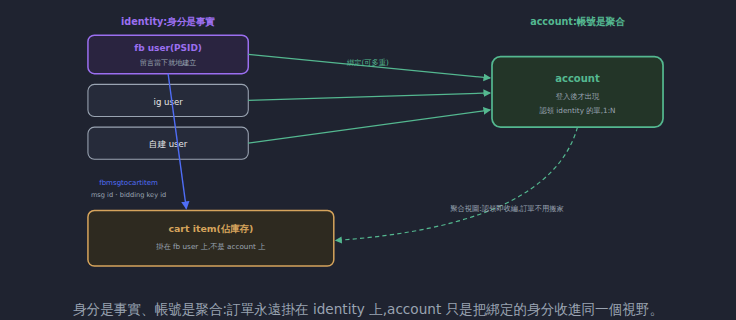
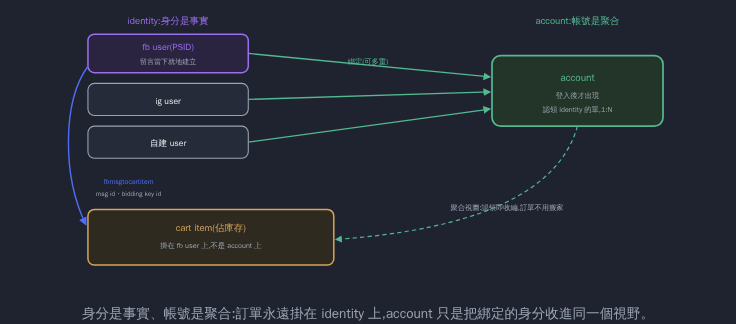
修正身分章分層圖:fb user → cart item 箭頭改走左側外緣
原本的直線箭頭從 fb user 直接穿過 ig user 與自建 user 兩個框才到
cart item,視覺上混淆(像是三個身分都連到同一個 cart item)。改成
沿左側外緣的弧線繞過,語意不變。鐵人賽 day05-1.png 同步重產。

Claude-Session: https://claude.ai/code/session_01Fqj6R94ai215nT9qBcjGj2

diff --git a/src/content/blog/rezero-identity.md b/src/content/blog/rezero-identity.md
@@ -46,7 +46,7 @@ draft: false
     <rect x="28" y="196" width="230" height="52" rx="6" fill="#2e2a20" stroke="#d6a45c" stroke-width="1.4"/>
     <text x="143" y="216" fill="#d6a45c" font-size="8.8" text-anchor="middle" font-weight="bold">cart item(佔庫存)</text>
     <text x="143" y="232" fill="#9aa4b2" font-size="6.8" text-anchor="middle">掛在 fb user 上,不是 account 上</text>
-    <line x1="103" y1="68" x2="120" y2="194" stroke="#4f6df5" stroke-width="1.3" marker-end="url(#rif)"/>
+    <path d="M 28 62 C 4 95, 4 165, 26 210" fill="none" stroke="#4f6df5" stroke-width="1.3" marker-end="url(#rif)"/>
     <text x="66" y="172" fill="#4f6df5" font-size="6.6" text-anchor="middle">fbmsgtocartitem</text>
     <text x="66" y="183" fill="#9aa4b2" font-size="6.2" text-anchor="middle">msg id・bidding key id</text>
     <path d="M 486 118 Q 460 210 260 224" fill="none" stroke="#54b890" stroke-width="1.1" stroke-dasharray="4 3" marker-end="url(#rig)"/>
